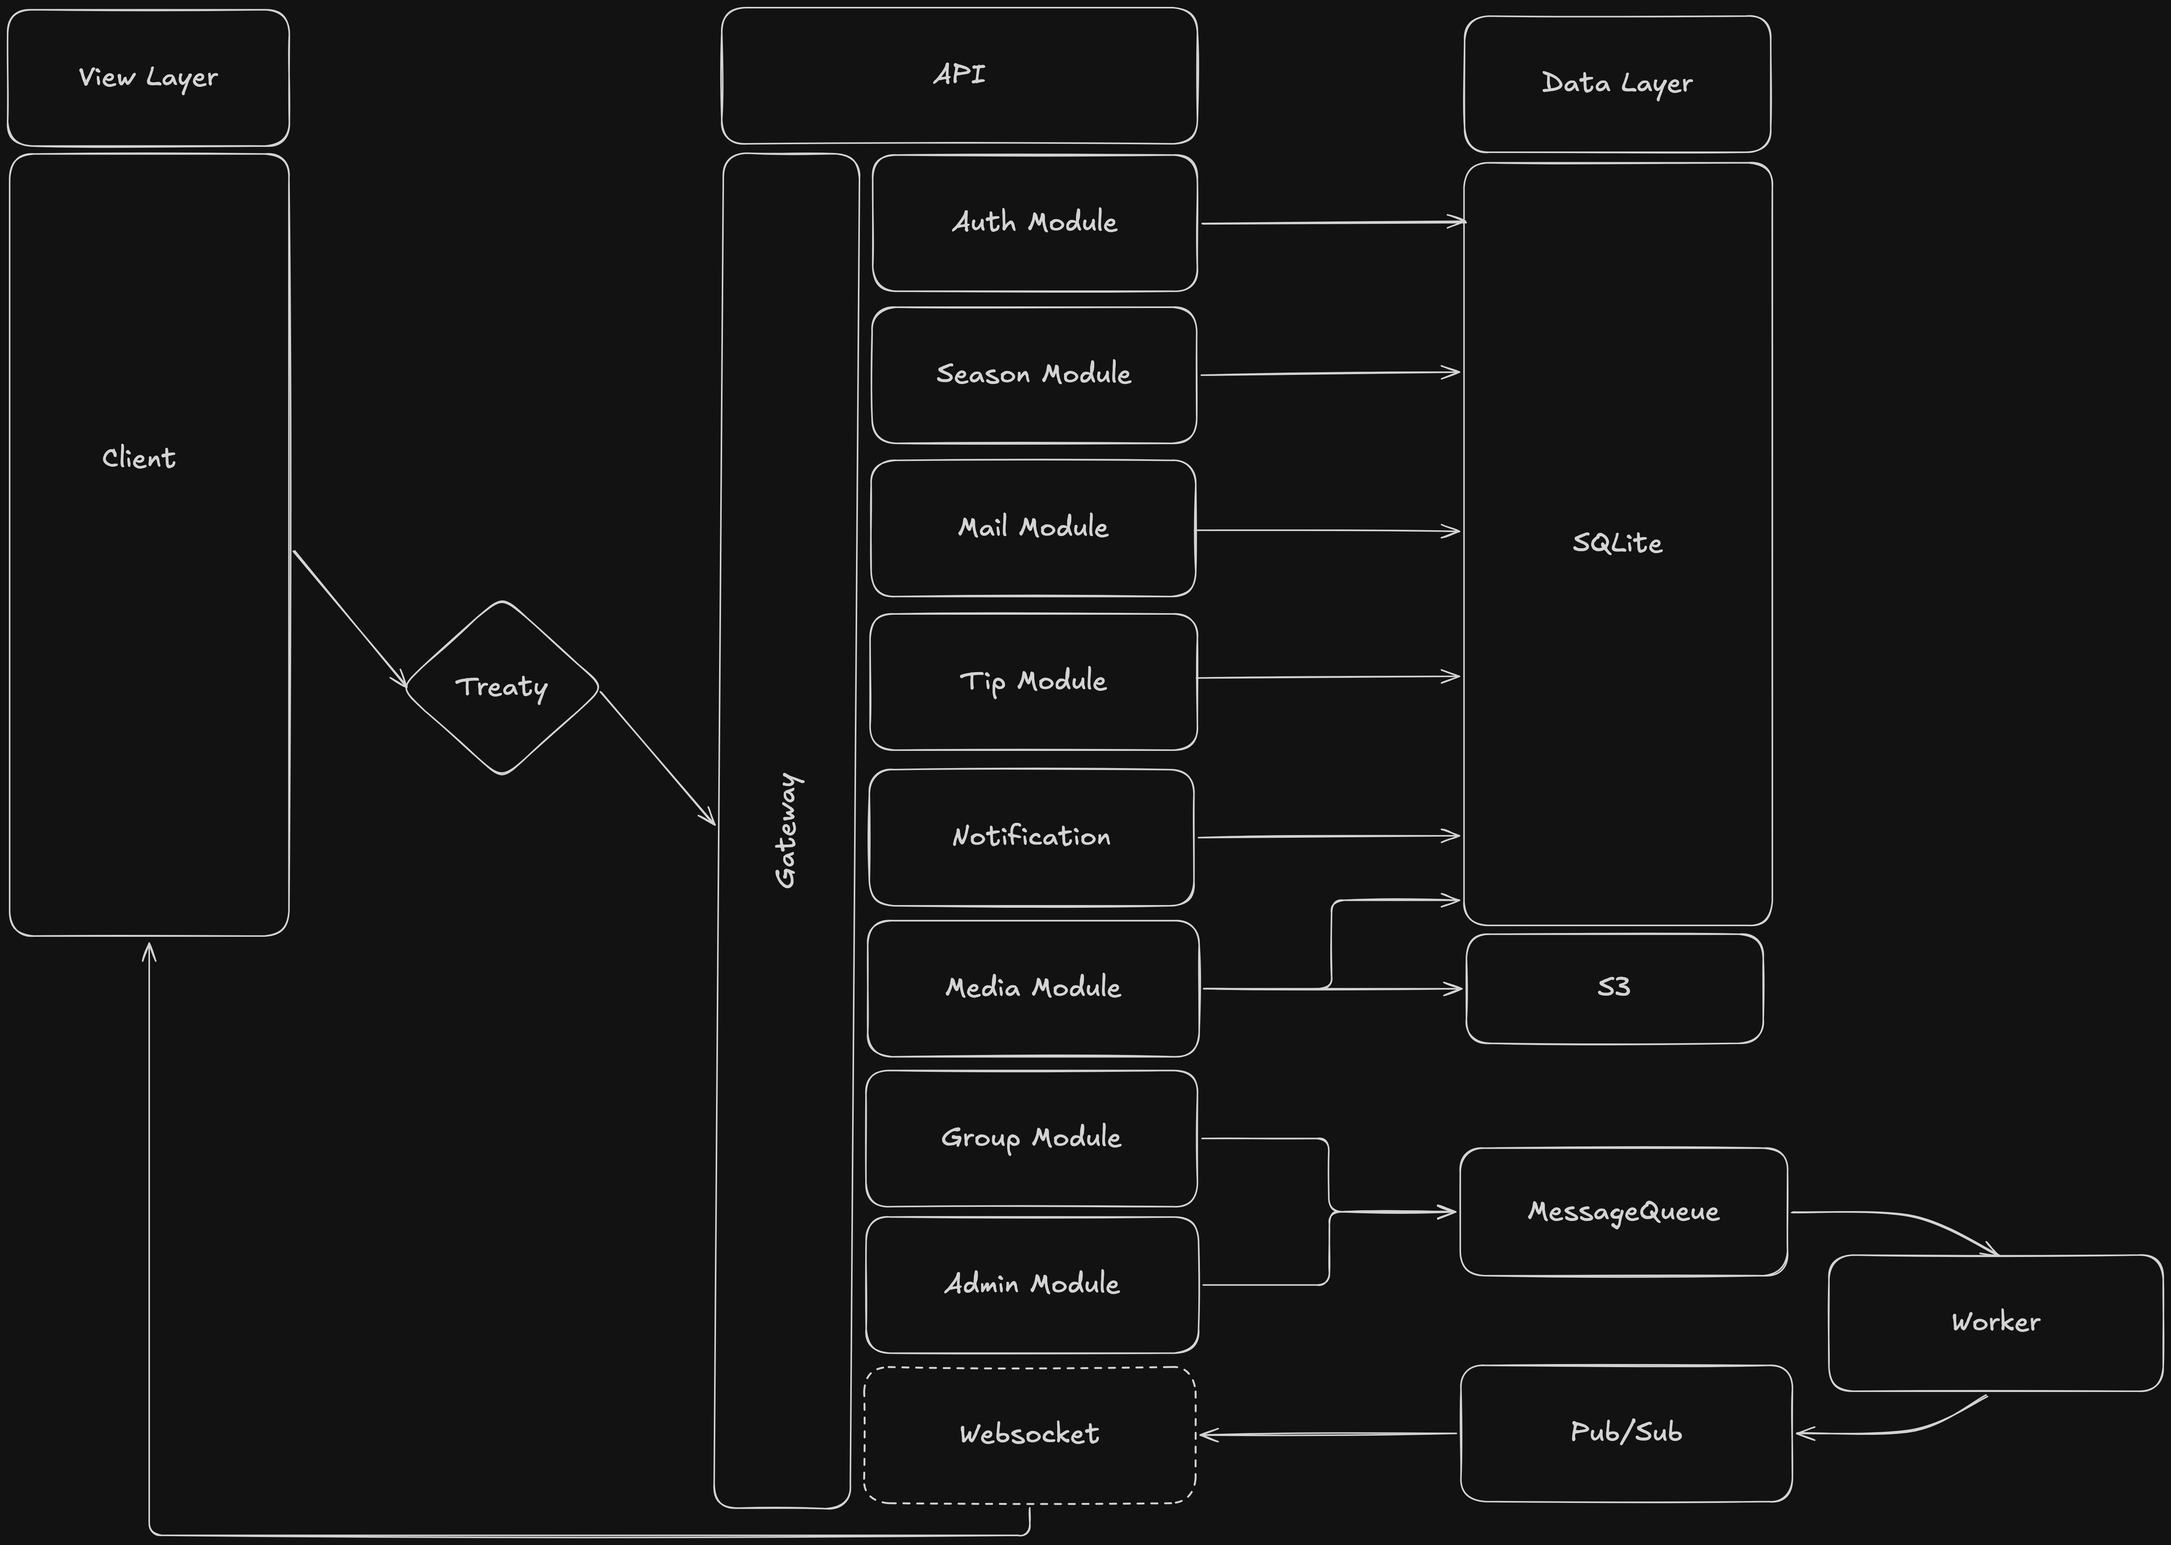
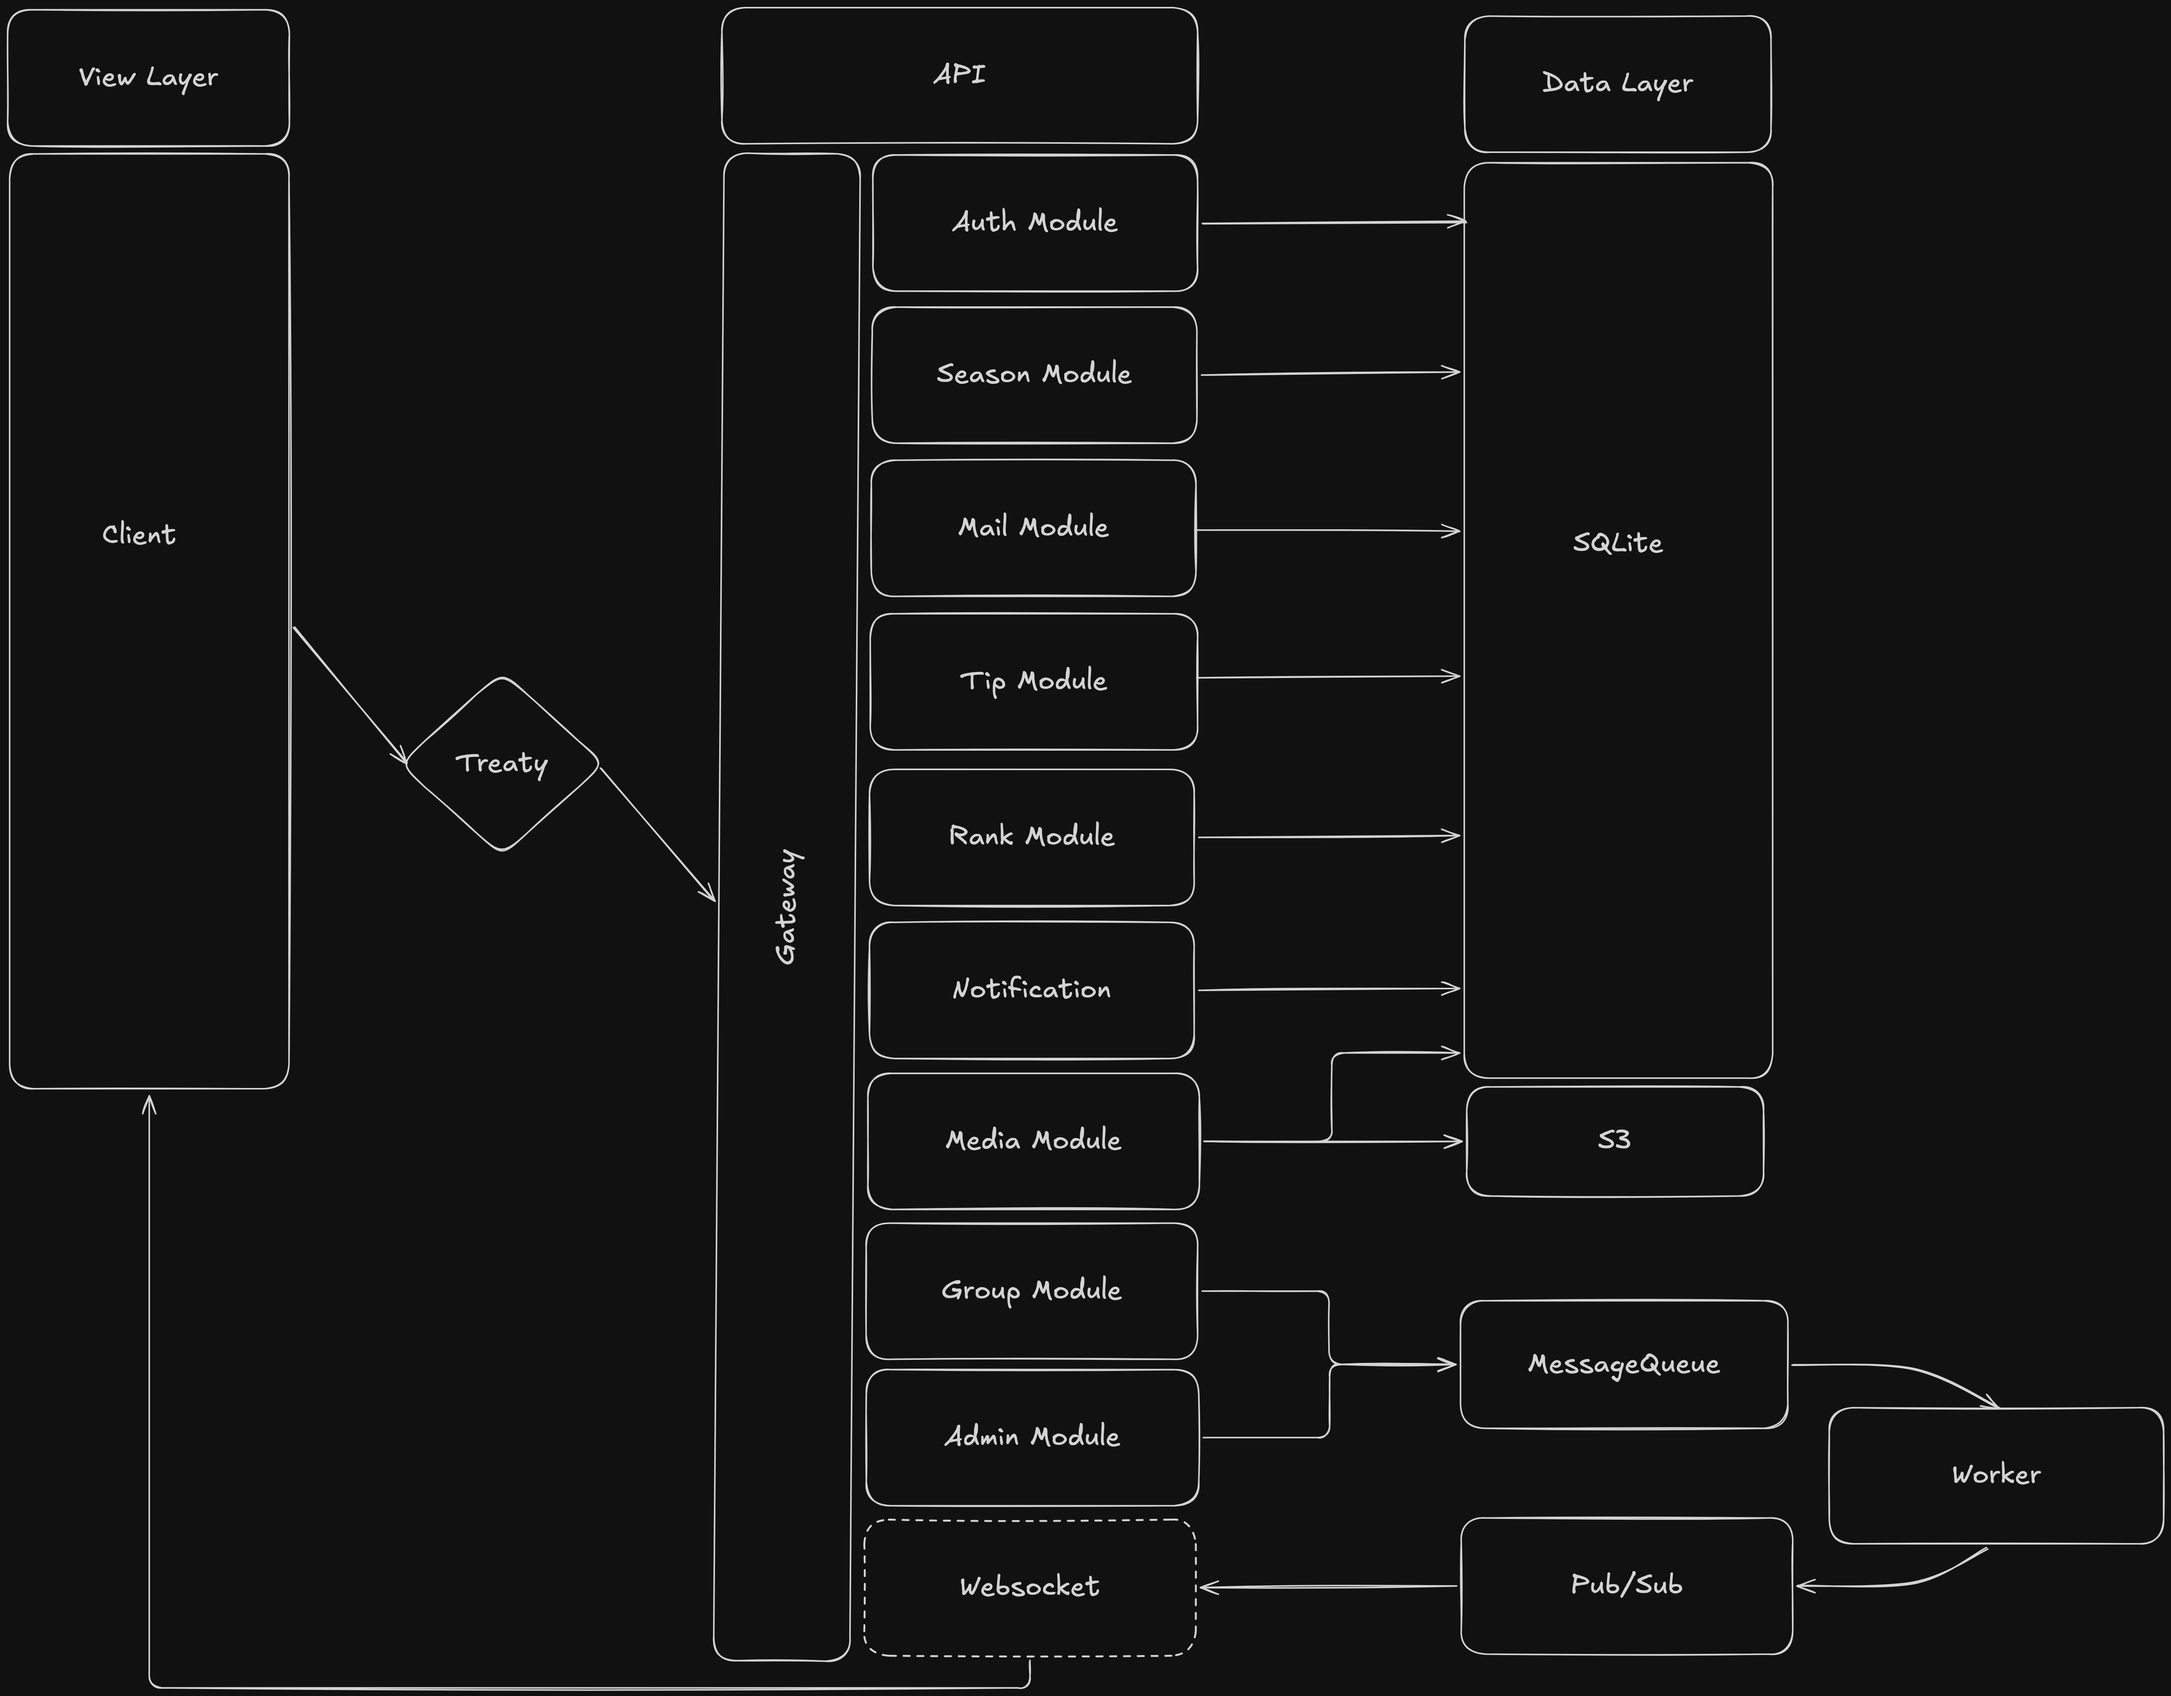
docs: update system diagram

diff --git a/CHANGELOG.md b/CHANGELOG.md
@@ -21,7 +21,11 @@ und das Projekt folgt dem
   GitHub Actions, die Basis-Images der Dockerfiles und die Images in den
   Compose-Dateien. ([#58])
 - `CHANGELOG.md` und `CONTRIBUTING.md` mit den Regeln für Branches, Commits,
-  Pull Requests, CI und Releases.
+  Pull Requests, CI und Releases. ([#59])
+
+### Geändert
+
+- Das Systemdiagramm in `docs/architecture` zeigt jetzt auch das Rank Module.
 
 ### Behoben
 
@@ -33,6 +37,8 @@ und das Projekt folgt dem
 ### Entfernt
 
 - MIT-Lizenz (`LICENSE`) und der Lizenz-Abschnitt in der README. ([#57])
+- Script `bun lint:turbo`, das wegen der zyklischen Abhängigkeit zwischen
+  `@repo/api` und `@repo/auth` nie lief. Gelintet wird mit `bun lint`. ([#59])
 
 ## [1.0.0] - 2026-10-30
 
@@ -179,3 +185,4 @@ Erstes Release der Tippspiel-Plattform für den HSC 2000 Coburg.
 [#55]: https://github.com/justintischendorf/hscbet/pull/55
 [#57]: https://github.com/justintischendorf/hscbet/pull/57
 [#58]: https://github.com/justintischendorf/hscbet/pull/58
+[#59]: https://github.com/justintischendorf/hscbet/pull/59
